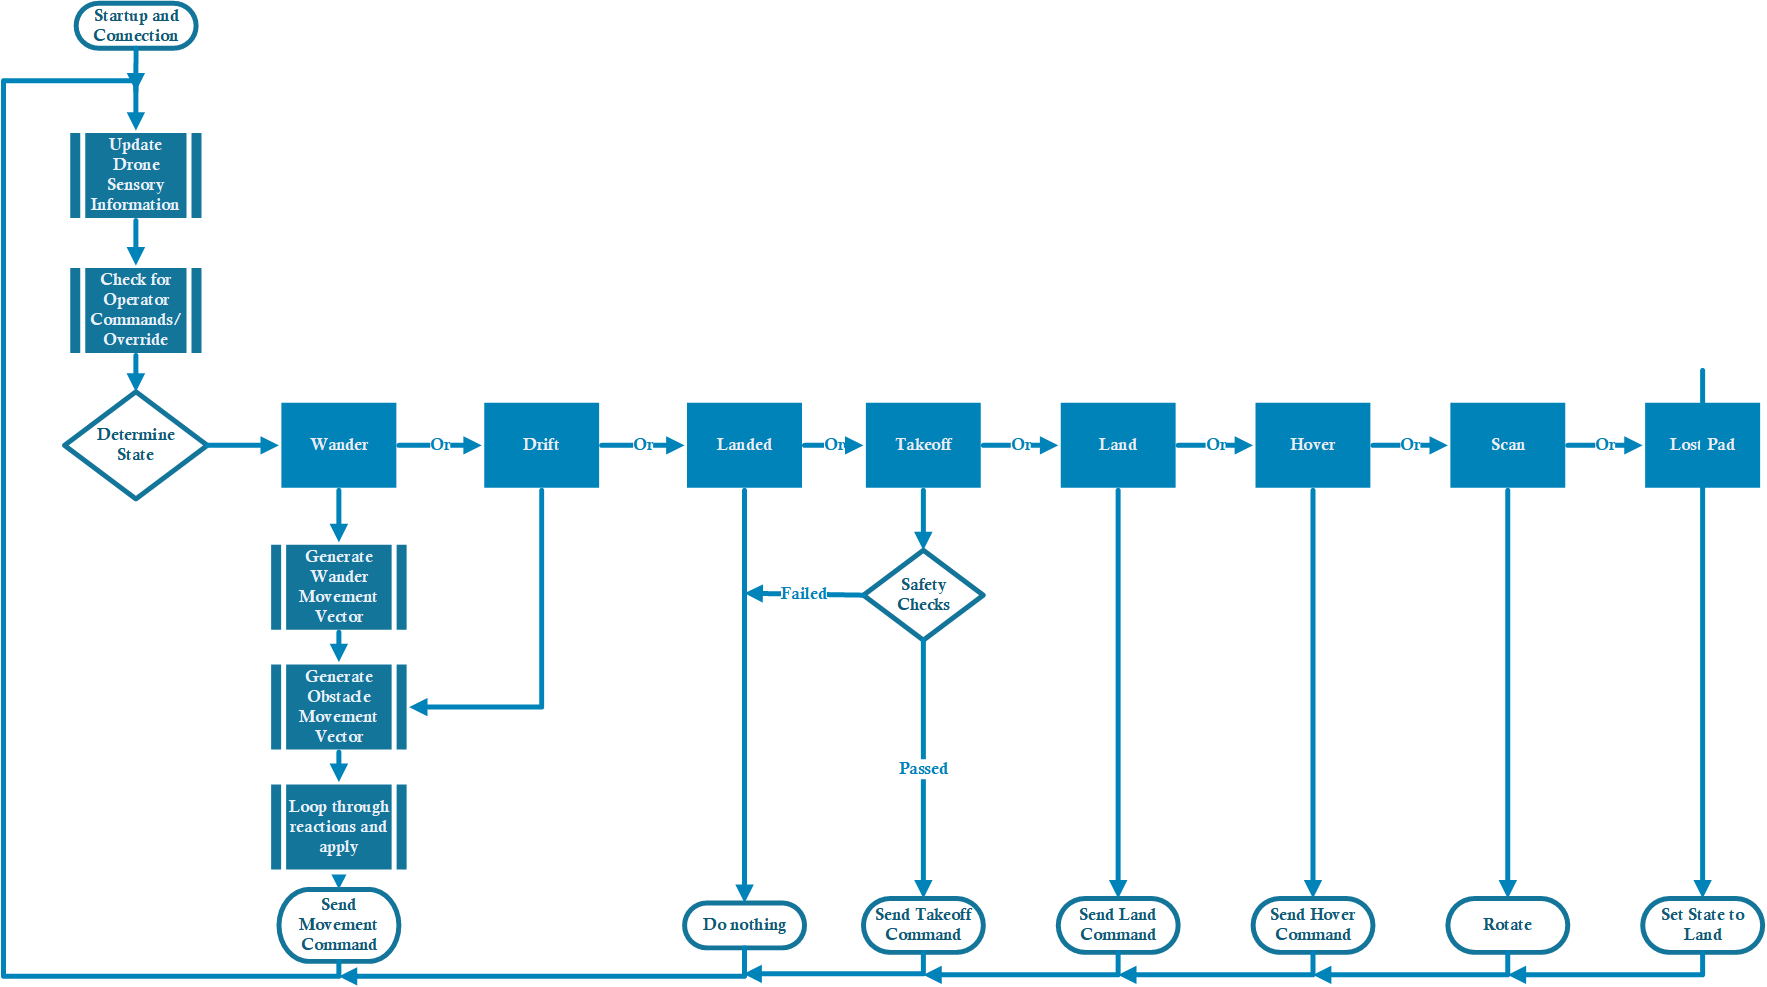
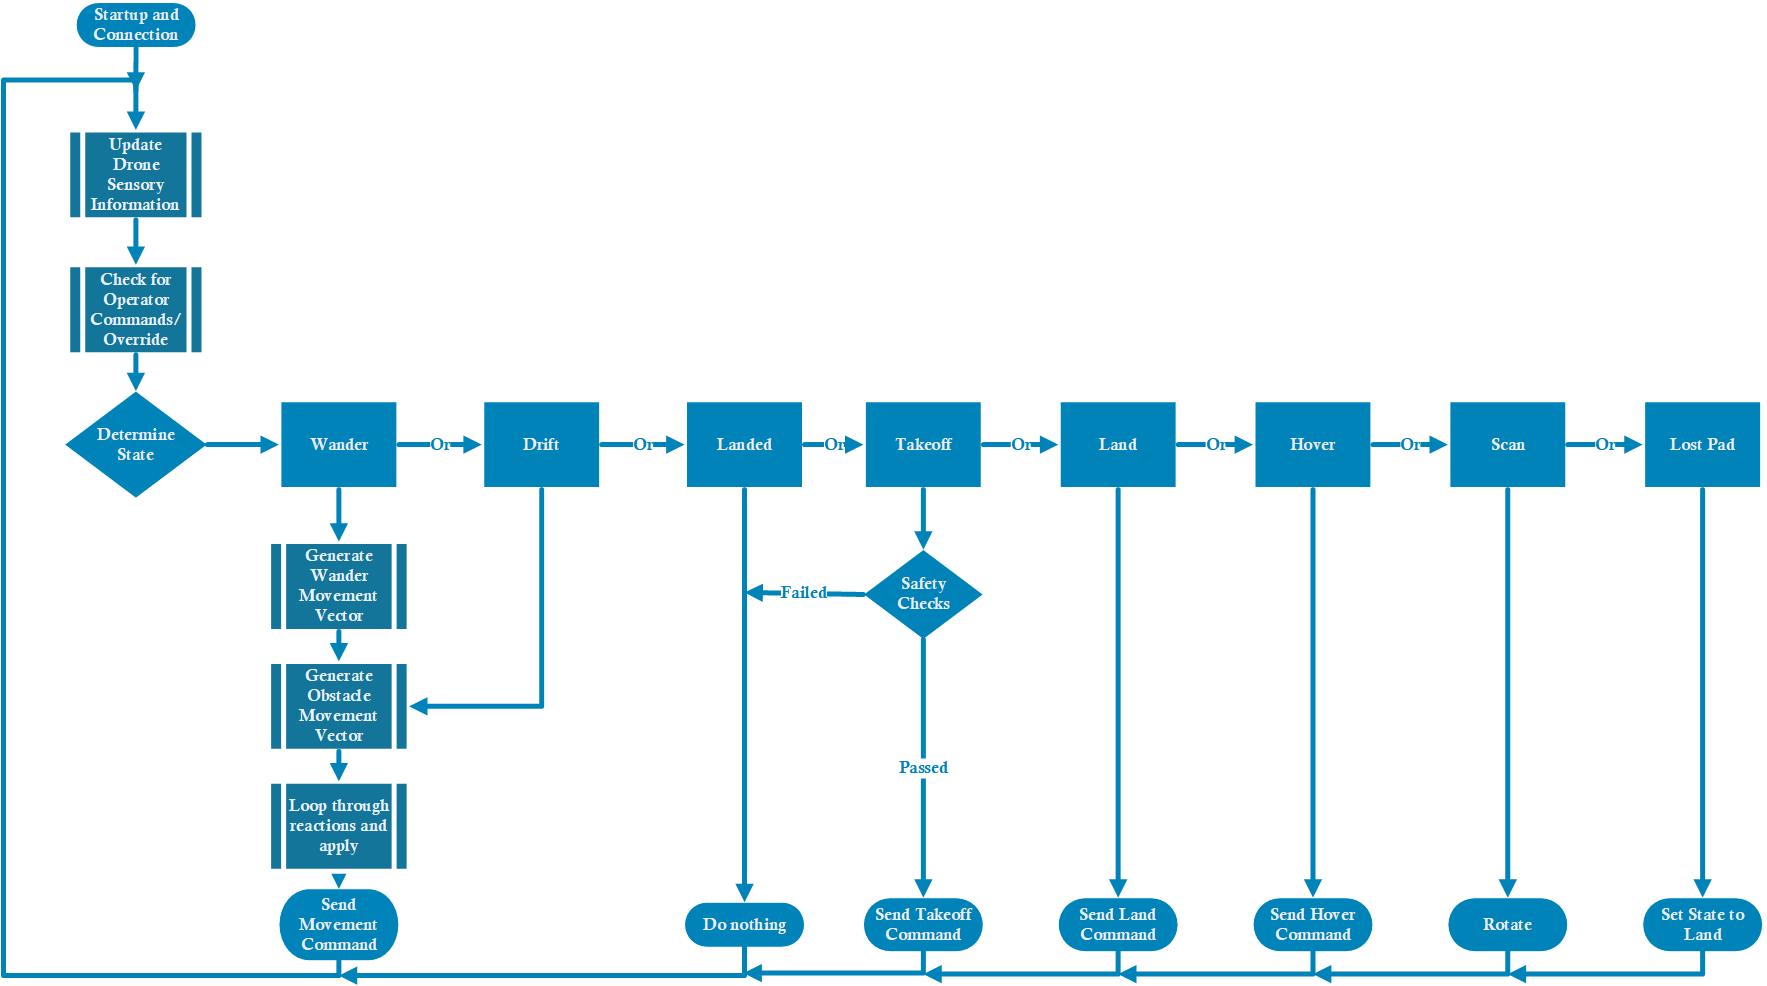
readme better picture

diff --git a/README.md b/README.md
@@ -78,7 +78,7 @@ The code from <a href="https://www.youtube.com/watch?v=58aPh8rKKsk">Azu Technolo
 General control of both drones is organized around a Finite State Machine (FSM). The primary state of wander is implemented alongside a few states that support smooth and safe operation. The general control logic is shown below.
 <br> 
 
-<img src="imgs/control_loop.png" width="500">
+<img src="imgs/control_loop.png" width="1000">
 </details> 
 
 <details>
